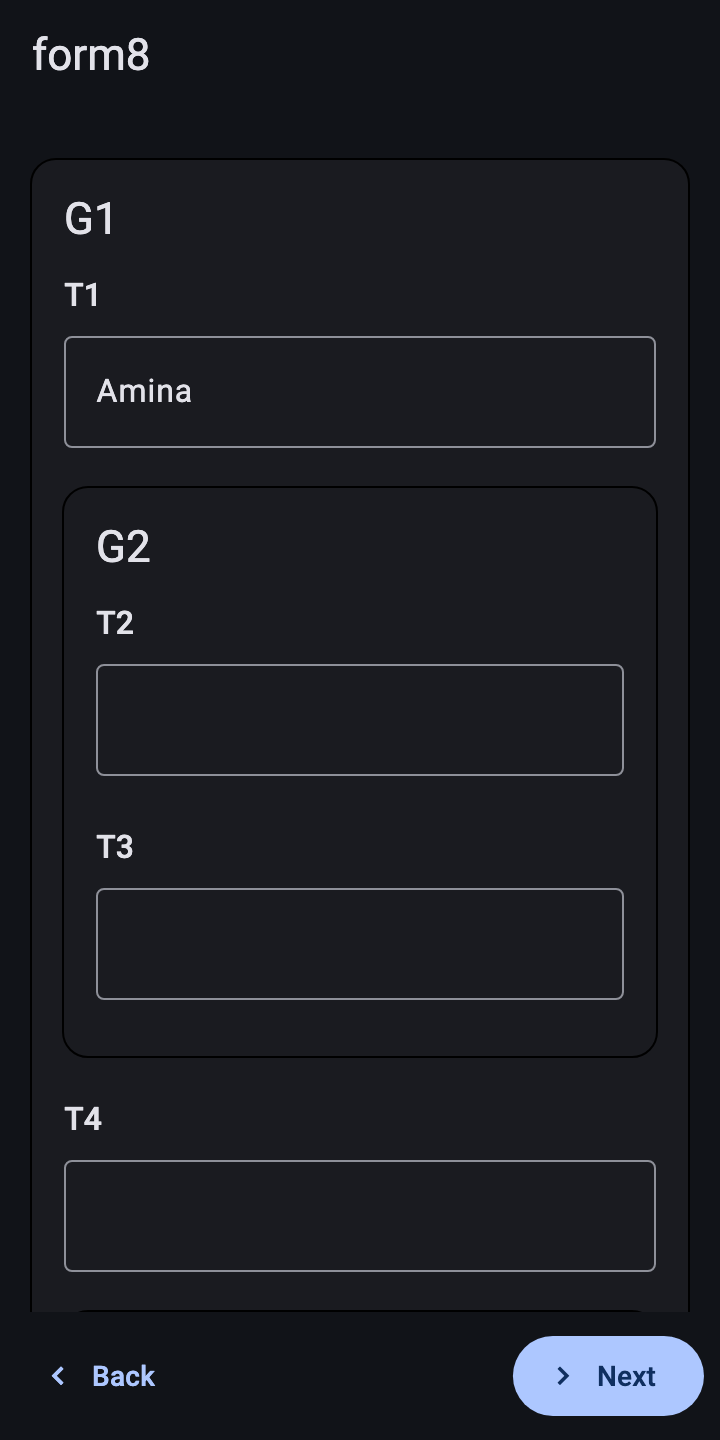
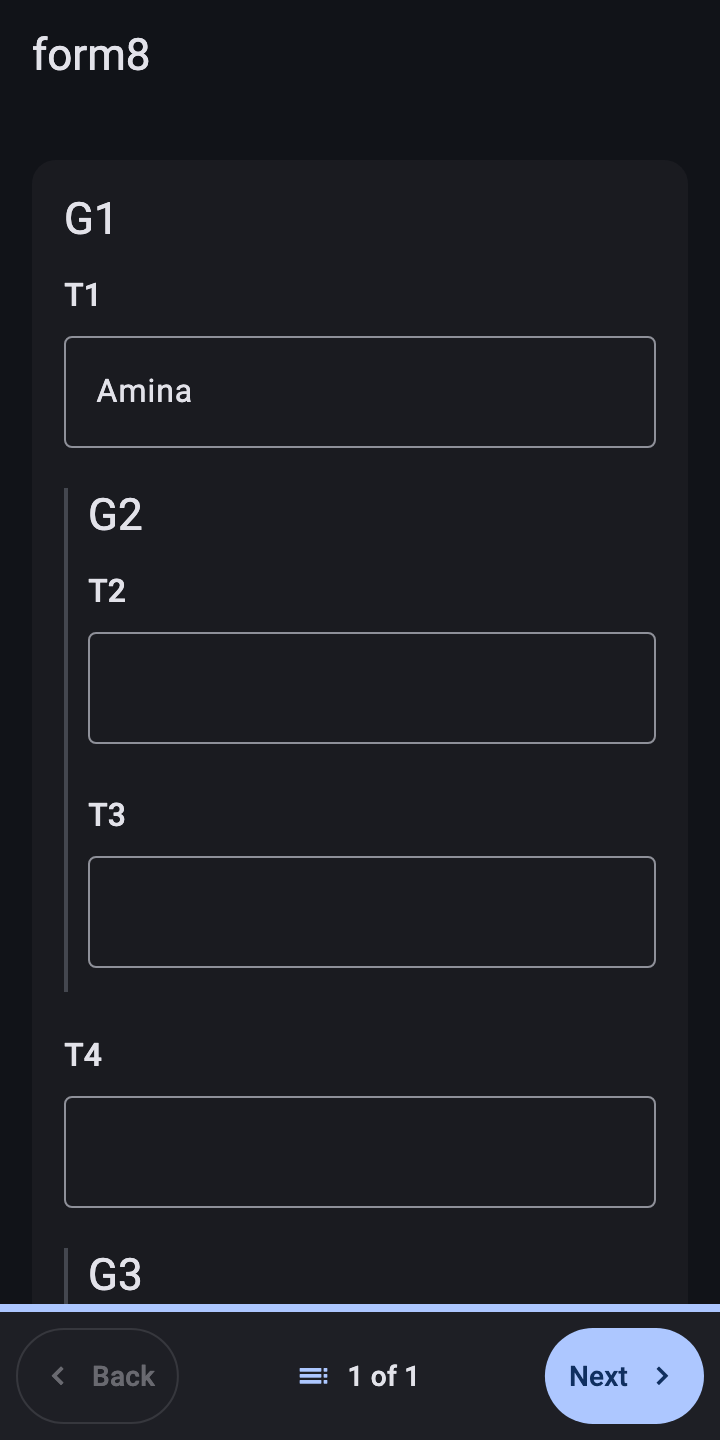
dartrosa_flutter 0.2.0: docs, CHANGELOG, screenshots (desktop outline, outline sheet), outline highlight block

diff --git a/packages/dartrosa_flutter/test/screenshots/screenshots_test.dart b/packages/dartrosa_flutter/test/screenshots/screenshots_test.dart
@@ -2,7 +2,7 @@
 // SPDX-License-Identifier: Apache-2.0
 
 // Renders the screenshots in docs/images/screenshots/: XFormView showing
-// conformance-corpus forms at phone size, in light and dark themes, with
+// conformance-corpus forms at phone size (and one desktop window), in light and dark themes, with
 // the real Roboto and Material Icons fonts (the default test font draws
 // boxes).
 //
@@ -15,6 +15,13 @@
 // then shrink the PNGs (lossless palette quantization keeps them small):
 //
 //   python3 test/screenshots/optimize_pngs.py ../../docs/images/screenshots
+//
+// To review the adaptive layout, render every shot at phone, small
+// phone (text at 100% and 200%), tablet and desktop sizes into a folder
+// of your choice (never the docs):
+//
+//   DARTROSA_SCREENSHOTS=1 DARTROSA_SCREENSHOTS_MATRIX=/tmp/matrix \
+//     flutter test test/screenshots --tags screenshots --plain-name matrix
 @Tags(['screenshots'])
 @TestOn('mac-os')
 library;
@@ -86,7 +93,13 @@ class _Shot {
     this.prepare,
     this.afterPump,
     this.images = const [],
+    this.size = _phone,
+    this.pixelRatio = _pixelRatio,
   });
+
+  /// The window, in logical pixels, and its pixel ratio.
+  final Size size;
+  final double pixelRatio;
 
   final String name;
   final String form;
@@ -120,6 +133,39 @@ T _node<T extends FormNode>(FormNode node, String name) {
 }
 
 final _shots = [
+  // A tablet or desktop window: the outline side panel beside a
+  // field-list screen in a centered column.
+  _Shot(
+    'desktop_outline',
+    'collect/all-widgets.xml',
+    size: const Size(1280, 800),
+    pixelRatio: 1,
+    prepare: (s) {
+      final text = _node<QuestionNode>(s.root, '/string_widget');
+      s.answer(text.index, const StringValue('Amina'));
+      final integer = _node<QuestionNode>(s.root, '/integer_widget');
+      s.answer(integer.index, const IntegerValue(42));
+      final grouped = _node<QuestionNode>(
+        s.root,
+        '/integer_thousands_sep_widget',
+      );
+      s.answer(grouped.index, const IntegerValue(1234567));
+      s.navigator.jumpTo(_node<GroupNode>(s.root, '/table_list_test').index);
+    },
+  ),
+  // On a phone the outline opens as a sheet from the pager's position.
+  _Shot(
+    'outline_sheet',
+    'collect/form8.xml',
+    prepare: (s) {
+      final first = _node<QuestionNode>(s.root, '/T1');
+      s.answer(first.index, const StringValue('Amina'));
+    },
+    afterPump: (tester) async {
+      await tester.tap(find.byIcon(Icons.toc).first);
+      await tester.pumpAndSettle();
+    },
+  ),
   // A group of number inputs with hints, some answered.
   _Shot(
     'text_number',
@@ -287,7 +333,13 @@ void main() {
     for (final brightness in Brightness.values) {
       testWidgets(
         '${shot.name} ${brightness.name}',
-        (tester) => _render(tester, shot, brightness),
+        (tester) => _render(
+          tester,
+          shot,
+          brightness,
+          size: shot.size,
+          pixelRatio: shot.pixelRatio,
+        ),
         skip: !_enabled,
       );
     }

diff --git a/packages/dartrosa_flutter/lib/src/outline.dart b/packages/dartrosa_flutter/lib/src/outline.dart
@@ -280,11 +280,19 @@ class _FormOutlineState extends State<FormOutline> {
               itemCount: entries.length,
               itemBuilder: (context, i) {
                 final entry = entries[i];
+                bool isCurrent(int j) =>
+                    current != null &&
+                    j >= 0 &&
+                    j < entries.length &&
+                    entries[j].screen == current;
                 return _OutlineTile(
                   key: i == firstCurrent ? _currentKey : null,
                   entry: entry,
                   controller: controller,
-                  current: current != null && entry.screen == current,
+                  current: isCurrent(i),
+                  // The current screen's lines form one highlighted block.
+                  roundTop: !isCurrent(i - 1),
+                  roundBottom: !isCurrent(i + 1),
                   onTap: () => widget.onSelected(entry.node),
                 );
               },
@@ -379,9 +387,13 @@ class _OutlineTile extends StatelessWidget {
     required this.controller,
     required this.current,
     required this.onTap,
+    this.roundTop = true,
+    this.roundBottom = true,
     super.key,
   });
 
+  final bool roundTop;
+  final bool roundBottom;
   final OutlineEntry entry;
   final XFormController controller;
   final bool current;
@@ -403,7 +415,12 @@ class _OutlineTile extends StatelessWidget {
     Widget tile(ListTile tile) => Padding(
       padding: const EdgeInsets.symmetric(horizontal: 8),
       child: ListTileTheme.merge(
-        shape: RoundedRectangleBorder(borderRadius: BorderRadius.circular(12)),
+        shape: RoundedRectangleBorder(
+          borderRadius: BorderRadius.vertical(
+            top: roundTop ? const Radius.circular(12) : Radius.zero,
+            bottom: roundBottom ? const Radius.circular(12) : Radius.zero,
+          ),
+        ),
         selectedTileColor: scheme.secondaryContainer,
         selectedColor: scheme.onSecondaryContainer,
         child: tile,

diff --git a/packages/dartrosa_flutter/README.md b/packages/dartrosa_flutter/README.md
@@ -30,7 +30,27 @@ XFormView(
   validates the screen before moving on, asks before adding repeat
   instances and ends with a finalize screen, like ODK Collect.
 - **Scroll** mode shows every relevant question on one page with
-  add/remove buttons for repeats.
+  add/remove buttons for repeats (removing asks first).
+- **Adaptive layout**, by the width `XFormView` is given (Material 3
+  window size classes, `XFormWindowSize`): phones (under 600dp) use the
+  full width; from 600dp the form is a centered column at most 720dp
+  wide (`XFormTheme.maxContentWidth`); from 840dp the **form outline**
+  (groups and questions, answered / required / error state, the current
+  screen) is a side panel that jumps to any question, like Collect's
+  hierarchy view. On narrower windows the outline is a bottom sheet,
+  opened from the pager's position ("3 of 12") or by
+  `XFormViewState.showOutline()` (use a `GlobalKey<XFormViewState>`);
+  `XFormView.outline` turns the panel off (`onRequest`) or the outline
+  off (`none`).
+- **Keyboard and mouse**: Page Down / Page Up and Alt+→ / Alt+← (mirrored
+  in right-to-left forms) move between pager screens, Enter in a
+  one-line field moves to the next field or screen, Tab follows form
+  order (image-map areas and rank moves included), Esc closes sheets and
+  dialogs. On desktops and in browsers scroll bars stay visible, text can
+  be selected and the time picker opens for typing.
+- **Errors**: when Next or Finalize is blocked, the first question in
+  error is scrolled into view and focused; its field turns red and the
+  message, with an icon, sits under it.
 - Widgets rebuild per question: each question listens only to its own
   node's changes (answers, recalculations, relevance).
 - Platform features go through `XFormDelegates`; without one, capture
@@ -48,11 +68,11 @@ XFormView(
 | time / dateTime | pickers |
 | select one | radio list, `minimal` (drop-down), `quick` (auto-advance in pager mode), `autocomplete`, `columns`, `columns-N`, `columns-pack`, `no-buttons`, `likert`, `label`, `list-nolabel`, `list`; Collect's old names `compact`, `quickcompact`, `compact-N`, `horizontal`, `horizontal-compact`; `image-map`; `map` (through `XFormDelegates.selectFromMap`) |
 | select multiple | check boxes, `minimal` (dialog), `autocomplete`, `columns*`, `no-buttons`, `label`, `list-nolabel`, `list`, `image-map` |
-| rank, trigger, note | reorderable list, acknowledge, read-only text |
+| rank, trigger, note | reorderable list (drag, or the move up / down buttons), acknowledge, read-only text |
 | range | slider, `vertical`, `picker`, `rating`, `no-ticks` |
 | geopoint, barcode, image / audio / video / file | through `XFormDelegates` (typed value otherwise) |
 | geopoint `maps` / `placement-map`, geotrace, geoshape | on the app's map through `XFormDelegates.geoFromMap` when `canShowMaps` (default widget otherwise); `hidden-answer` |
-| group | card, `field-list` (one pager screen), `table-list` (one grid: choice labels as header, a row of buttons per select), `intent` attribute (external app filling the group's questions) |
+| group | card, `field-list` (one pager screen), `table-list` (one grid: choice labels as header, a row of buttons per select, lines between rows), `intent` attribute (external app filling the group's questions) |
 | repeat | add / remove, "add another?" prompt in pager mode, `noAddRemove` |
 
 Choice images use `delegates.image(uri)`. Selects with a `search(...)`
@@ -81,8 +101,11 @@ back to the default widget (with one `debugPrint` per appearance).
   ...">`. Guidance hints are shown per `XFormView.guidanceHints` (`yes`,
   `collapsed`, `no`).
 - **Theme**: add an `XFormTheme` to `ThemeData.extensions` (page padding,
-  question spacing, error color, card style, and `maxContentWidth`, which
-  caps and centers the form on tablets and desktops in both modes).
+  question spacing, error color, card style (a Material 3 filled card by
+  default; groups inside groups are sections), `maxContentWidth` (720dp
+  by default, `double.infinity` to fill the width), `outlinePanelWidth`,
+  and `adaptiveChoiceColumns`: four or more short text choices go in
+  columns on wide forms).
 - **Performance**: answering a question rebuilds that question and the
   questions whose state depends on it, not the form; scroll mode builds
   questions lazily (`test/rebuild_test.dart` prints the rebuild counts of
@@ -99,6 +122,8 @@ back to the default widget (with one `debugPrint` per appearance).
 
 Golden tests (`test/golden_test.dart`, light/dark, LTR/RTL) use the
 default test font; refresh them with `flutter test --update-goldens`.
+`test/adaptive_test.dart` checks every size class (320 to 1920dp, text
+at 100% and 200%) for overflow and layout.
 
 Run the example: `cd example && flutter create . && flutter run`.
 

diff --git a/docs/guides/render-a-form-in-flutter.md b/docs/guides/render-a-form-in-flutter.md
@@ -155,15 +155,50 @@ group) per screen, checks the screen before moving on, asks before
 adding a repeat and ends with a finalize screen. `XFormMode.scroll`
 shows every question on one page instead.
 
+### On tablets and desktops
+
+`XFormView` lays itself out for the width it is given, following the
+Material 3 window size classes:
+
+| Width | Layout |
+|---|---|
+| under 600dp (phones) | one column, full width; 48dp pager buttons |
+| 600dp to 839dp | a centered column at most 720dp wide |
+| 840dp and wider | the same column, plus the form outline as a side panel |
+
+![A desktop window: the form outline beside a table-list screen](../images/screenshots/desktop_outline_light.png)
+
+The outline lists the groups and questions with their state (answered,
+required, in error) and highlights the current screen; selecting a
+question jumps to it, like ODK Collect's hierarchy view. The person can
+hide the panel. On narrower windows the outline opens as a bottom sheet
+from the pager's position button ("3 of 12"):
+
+![On a phone, the outline opens as a sheet](../images/screenshots/outline_sheet_light.png)
+
+Pass `outline: XFormOutlineMode.onRequest` to keep only the sheet, or
+`XFormOutlineMode.none` to turn the outline off. To open it from your own
+button (in scroll mode there is no position button), keep a
+`GlobalKey<XFormViewState>` on the view and call
+`key.currentState?.showOutline()`; `jumpTo(index)` shows a given
+question.
+
+With a keyboard, Page Down / Page Up and Alt+→ / Alt+← move between
+pager screens, Enter in a one-line field moves to the next field (or the
+next screen when the question is alone on it) and Tab follows the form
+order. When Next or Finalize is blocked, the first question in error is
+scrolled into view and focused. On desktops and in browsers the scroll
+bars stay visible and text can be selected with the mouse.
+
 To keep what the person entered when they leave before finishing, save a
 draft: see [Save and resume drafts](save-and-resume-drafts.md).
 
 ## 5. Match your app's look and language
 
 Add an `XFormTheme` to your theme to change spacing, the card style and
-the error color, and to cap the width of the form on large screens
-(`maxContentWidth`; by default the form fills the width); everything
-else follows your `ThemeData`. The button
+the error color, and the widest the form gets on large screens
+(`maxContentWidth`: 720dp by default, `double.infinity` to fill the
+width); everything else follows your `ThemeData`. The button
 labels and default messages come from `XFormLocalizations`, in English
 by default. To translate them, subclass it and register a delegate:
 

diff --git a/packages/dartrosa_flutter/CHANGELOG.md b/packages/dartrosa_flutter/CHANGELOG.md
@@ -1,3 +1,16 @@
+## 0.2.0
+
+- Adaptive layout by window size class (new `XFormWindowSize`): full width on phones; from 600dp a centered column, now capped by default at `XFormTheme.defaultMaxContentWidth` (720dp) when `maxContentWidth` is `null` (`double.infinity` fills the width).
+- Form outline (groups, questions, answered / required / error state, current screen) to jump to any question: a side panel from 840dp, a bottom sheet elsewhere. New `XFormView.outline` (`XFormOutlineMode.adaptive`, `onRequest`, `none`), public `XFormViewState` with `showOutline()`, `hideOutline()`, `jumpTo(FormIndex)` and `isOutlinePanelVisible`; `XFormTheme.outlinePanelWidth`.
+- Pager bottom bar: progress bar and position ("3 of 12", opening the outline), Back disabled on the first screen, Next with a trailing chevron, 48dp buttons on phones, icon buttons when labels don't fit; the end page sums up the answers.
+- Keyboard: Page Down / Page Up and Alt+arrows move between pager screens, Enter in a one-line field moves to the next field or screen, Tab follows form order also for controls built later (image maps, lazy lists); image-map areas are focusable and selected with Enter / Space; rank questions get move up / down buttons.
+- Errors: blocked Next and failed Finalize scroll to and focus the first question in error (a failed Finalize shows its whole `field-list` screen); text fields in error get a red outline; messages have an error icon.
+- Desktop and web: visible scroll bars, selectable text (`SelectionArea`), time picker in input mode.
+- Material 3 look: filled group cards (no shadow) unless the app's `CardTheme` or `XFormTheme` says otherwise, nested groups as sections, hints in `bodyMedium` / `onSurfaceVariant`, `table-list` row dividers, short choices in columns on wide forms (`XFormTheme.adaptiveChoiceColumns`).
+- Removing a repeat instance asks for confirmation.
+- Non-Gregorian date dialog: the month gets its own line on narrow screens with large text, and the content scrolls.
+- `XFormController.formChanges`: notified on every change, for form-wide summaries.
+
 ## 0.1.0
 
 - Initial release: Flutter renderer for DartRosa.

diff --git a/README.md b/README.md
@@ -17,6 +17,8 @@ New to ODK or XForms? Read the [overview](docs/OVERVIEW.md) first.
 |---|---|---|
 | ![Number questions](docs/images/screenshots/text_number_light.png) | ![Choices with pictures](docs/images/screenshots/select_images_light.png) | ![An Ethiopian-calendar date](docs/images/screenshots/date_ethiopian_dark.png) |
 
+![On a tablet or desktop: the form outline beside a table-list screen](docs/images/screenshots/desktop_outline_light.png)
+
 ## Quick start
 
 ```dart
